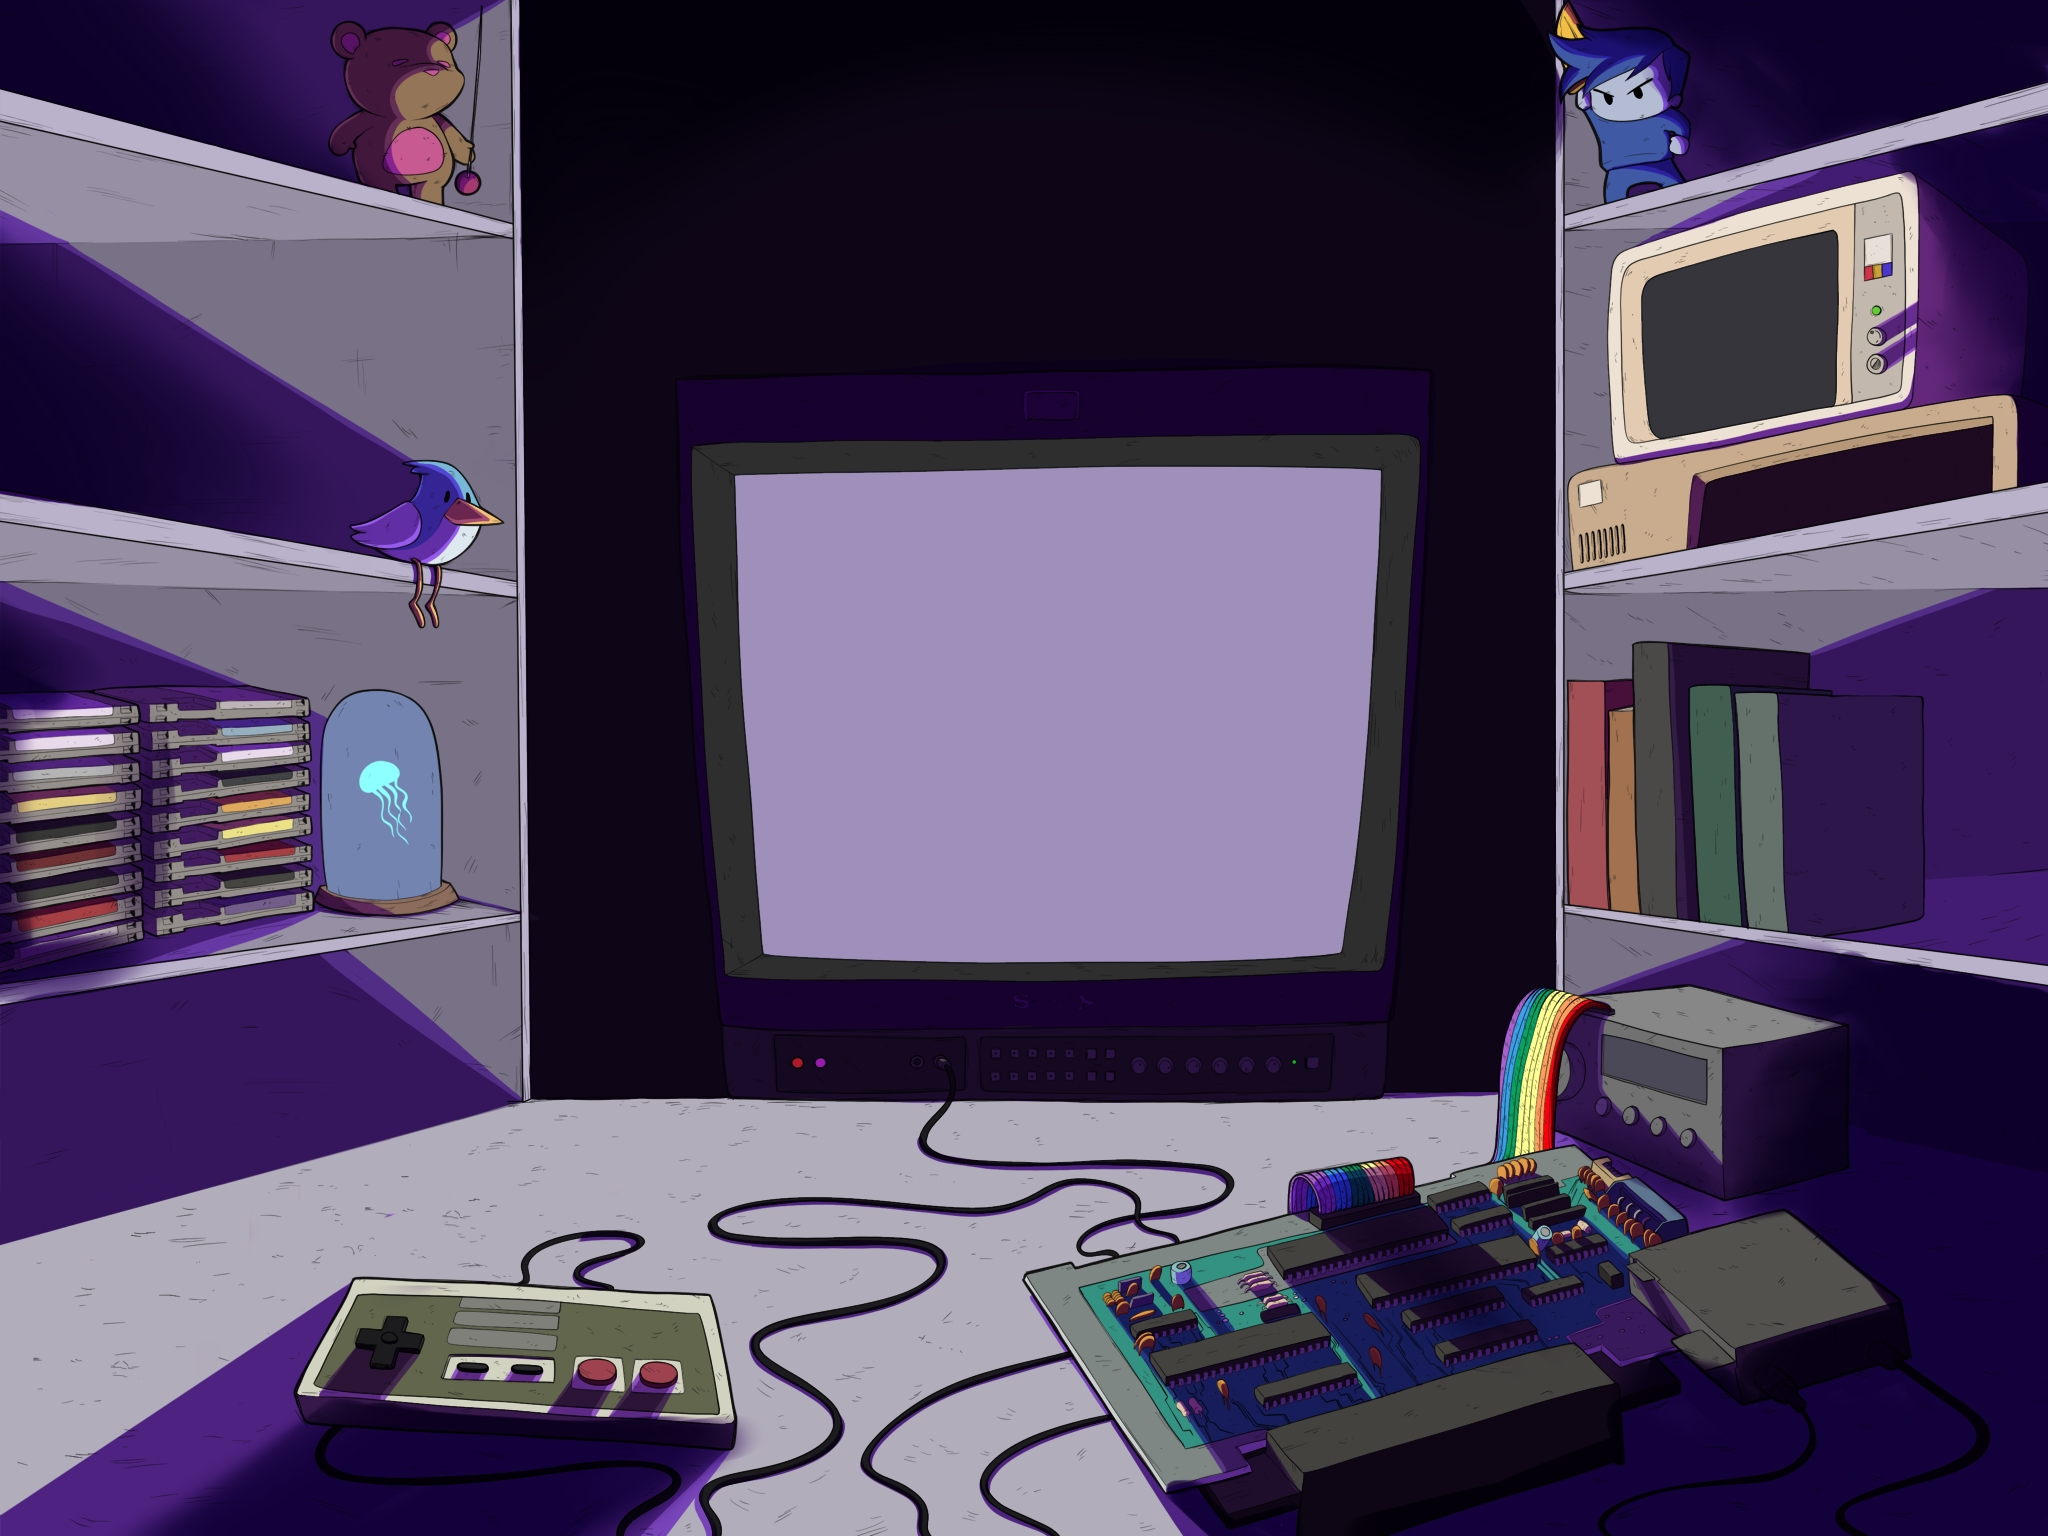
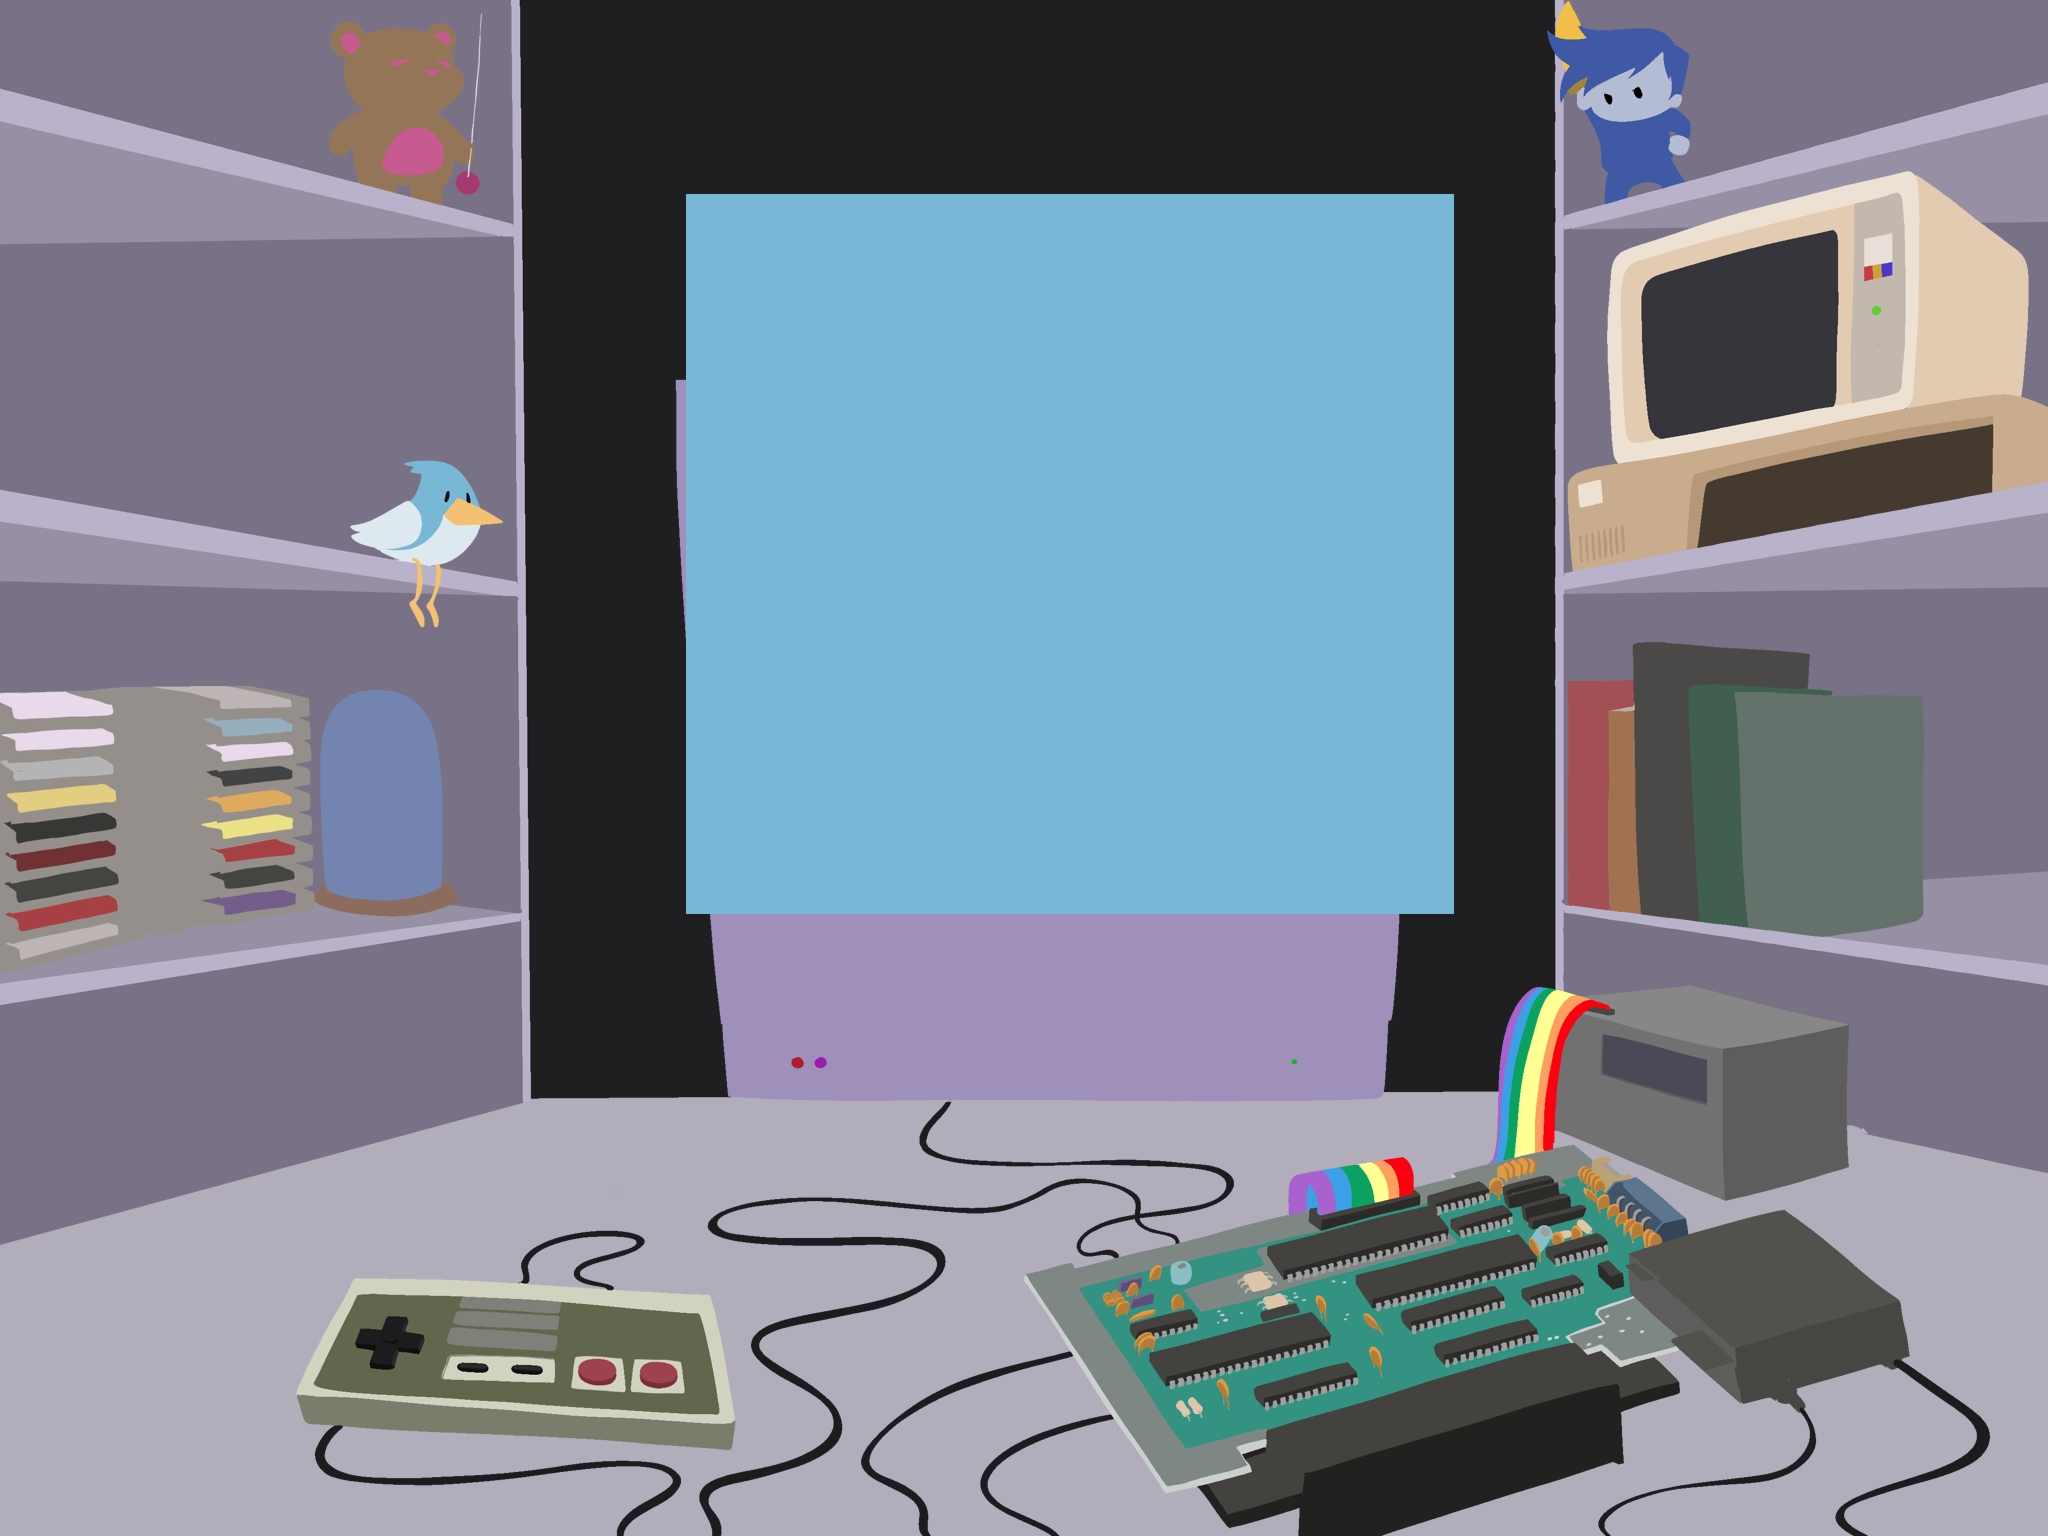
First good-looking version of revamped Let's Play

diff --git a/src/gui/components/emulator/GameStreamer.js b/src/gui/components/emulator/GameStreamer.js
@@ -12,19 +12,35 @@ import Emulator from "./Emulator";
 import integrations from "./integrations";
 import styles from "./GameStreamer.module.css";
 
-const INITIAL_ZOOM_DELAY = 3000;
 const ZOOM_DELAY = 1000;
 const ASSET_BACKGROUND = "assets/stream/main.jpg";
+const ASSET_TV = "assets/stream/tv.png";
+const ASSET_LIGHTS = {
+	tv: "assets/stream/light-tv.png",
+	monitor: "assets/stream/light-monitor.png",
+	buttons: "assets/stream/light-buttons-and-lamp.png",
+};
+const LIGHT_STROBE_SPEEDS = {
+	// low => slower strobe
+	tv: 0.2,
+	monitor: 0.005,
+	buttons: 0.3,
+};
+const LIGHT_OPACITY = {
+	min: 0.5,
+	max: 1,
+	range: 0.1,
+};
 const CRT_SPEED = 0.25;
 const SCREEN_WIDTH = 256;
 const SCREEN_HEIGHT = 240;
 
 // points in original stream.jpg coordinates (before center-crop scaling)
 const BUFFER_POINTS = {
-	topLeft: { x: 677, y: 434 },
-	topRight: { x: 1349, y: 434 },
-	bottomLeft: { x: 677, y: 933 },
-	bottomRight: { x: 1349, y: 933 },
+	topLeft: { x: 686, y: 194 },
+	topRight: { x: 1454, y: 194 },
+	bottomLeft: { x: 686, y: 914 },
+	bottomRight: { x: 1454, y: 914 },
 };
 
 export default class GameStreamer extends PureComponent {
@@ -35,7 +51,7 @@ export default class GameStreamer extends PureComponent {
 	}
 
 	zoom = () => {
-		this._changeZoomTo(styles.zoom, "megaZoom", INITIAL_ZOOM_DELAY);
+		this._changeZoomTo(styles.zoom, "megaZoom", 0);
 	};
 
 	megaZoom = () => {
@@ -81,7 +97,12 @@ export default class GameStreamer extends PureComponent {
 							ref={(ref) => {
 								this._zoomButton = ref;
 							}}
-							style={{ opacity: 0, marginLeft: 8, marginBottom: 0 }}
+							style={{
+								opacity: 0,
+								pointerEvents: "none",
+								marginLeft: 8,
+								marginBottom: 0,
+							}}
 						>
 							<IconButton
 								Icon={FaGlasses}
@@ -195,6 +216,10 @@ export default class GameStreamer extends PureComponent {
 		const loader = PIXI.Loader.shared;
 		loader.reset();
 		loader.add("background", ASSET_BACKGROUND);
+		loader.add("tv", ASSET_TV);
+		Object.entries(ASSET_LIGHTS).forEach(([key, path]) => {
+			loader.add(`light_${key}`, path);
+		});
 
 		let error = false;
 		loader.onError.add(() => {
@@ -219,6 +244,9 @@ export default class GameStreamer extends PureComponent {
 			const background = new PIXI.Sprite(resources.background.texture);
 			this._pixiBackground = background;
 
+			const tvOverlay = new PIXI.Sprite(resources.tv.texture);
+			this._tvOverlay = tvOverlay;
+
 			const bufferContainer = new PIXI.Container();
 			this._bufferContainer = bufferContainer;
 
@@ -239,11 +267,29 @@ export default class GameStreamer extends PureComponent {
 			this._crtFilter = crtFilter;
 
 			app.stage.addChild(background);
+
 			app.stage.addChild(bufferContainer);
+			app.stage.addChild(tvOverlay);
+
+			this._lightSprites = {};
+			const lightOrder = ["tv", "buttons", "monitor"];
+			lightOrder.forEach((key) => {
+				const sprite = new PIXI.Sprite(resources[`light_${key}`].texture);
+				sprite.alpha = LIGHT_OPACITY.min;
+				this._lightSprites[key] = sprite;
+				app.stage.addChild(sprite);
+			});
 
 			app.ticker.add((delta) => {
 				if (this._crtFilter) this._crtFilter.time += delta * CRT_SPEED;
 				if (!this.props.rom) this._updateNoise();
+
+				Object.entries(this._lightSprites).forEach(([key, sprite]) => {
+					const speed = LIGHT_STROBE_SPEEDS[key];
+					sprite.alpha =
+						LIGHT_OPACITY.min +
+						Math.sin(app.ticker.lastTime * speed) * LIGHT_OPACITY.range;
+				});
 			});
 
 			div.appendChild(app.view);
@@ -398,6 +444,20 @@ export default class GameStreamer extends PureComponent {
 				bg.height = imgH * scale;
 				bg.x = (canvasW - bg.width) / 2;
 				bg.y = (canvasH - bg.height) / 2;
+
+				if (this._tvOverlay) {
+					this._tvOverlay.width = bg.width;
+					this._tvOverlay.height = bg.height;
+					this._tvOverlay.x = bg.x;
+					this._tvOverlay.y = bg.y;
+				}
+
+				Object.values(this._lightSprites).forEach((sprite) => {
+					sprite.width = bg.width;
+					sprite.height = bg.height;
+					sprite.x = bg.x;
+					sprite.y = bg.y;
+				});
 
 				this._updateBufferTransform();
 			}

diff --git a/src/gui/components/emulator/GameStreamer.module.css b/src/gui/components/emulator/GameStreamer.module.css
@@ -4,6 +4,7 @@
 	display: flex;
 	flex-direction: column;
 	animation: fadein 5s;
+	image-rendering: pixelated;
 }
 
 @keyframes fadein {
@@ -49,6 +50,7 @@
 	border-radius: 0;
 	overflow: hidden;
 	background: black;
+	image-rendering: pixelated;
 }
 
 .stream {
@@ -56,26 +58,27 @@
 	width: 100%;
 	height: 100%;
 
-	animation: noise 5s infinite;
+	animation: noise 5s infinite, zoomloop 5s infinite;
+	image-rendering: pixelated;
 }
 
 .zoom {
 	animation: zoomin, zoomloop infinite;
-	animation-duration: 3s, 5s;
-	animation-delay: 0s, 3s;
-	transform: scale(1.3);
+	animation-duration: 0s, 5s;
+	animation-delay: 0s, 0s;
+	transform: scale(1);
 }
 
 .megazoom {
 	animation: megazoomin 1s;
-	transform: scale(1.8) translateX(-24px) translateY(24px);
+	transform: scale(1.8) translateX(-24px) translateY(70px);
 }
 
 .megazoomout {
 	animation: megazoomout, zoomloop infinite;
 	animation-duration: 1s, 5s;
 	animation-delay: 0s, 1s;
-	transform: scale(1.3);
+	transform: scale(1);
 }
 
 @keyframes noise {
@@ -83,28 +86,28 @@
 		filter: brightness(100%) contrast(100%) saturate(100%);
 	}
 	10% {
-		filter: brightness(98%) contrast(102%) saturate(98%);
+		filter: brightness(99%) contrast(101%) saturate(99%);
 	}
 	20% {
-		filter: brightness(102%) contrast(98%) saturate(102%);
+		filter: brightness(101%) contrast(99%) saturate(101%);
 	}
 	30% {
 		filter: brightness(100%) contrast(100%) saturate(100%);
 	}
 	40% {
-		filter: brightness(98%) contrast(102%) saturate(98%);
+		filter: brightness(99%) contrast(101%) saturate(99%);
 	}
 	50% {
-		filter: brightness(102%) contrast(98%) saturate(102%);
+		filter: brightness(101%) contrast(99%) saturate(101%);
 	}
 	60% {
 		filter: brightness(100%) contrast(100%) saturate(100%);
 	}
 	70% {
-		filter: brightness(98%) contrast(102%) saturate(98%);
+		filter: brightness(99%) contrast(101%) saturate(99%);
 	}
 	80% {
-		filter: brightness(102%) contrast(98%) saturate(102%);
+		filter: brightness(101%) contrast(99%) saturate(101%);
 	}
 	90% {
 		filter: brightness(100%) contrast(100%) saturate(100%);
@@ -115,47 +118,38 @@
 }
 
 @keyframes zoomin {
-	0% {
-		transform: scale(1);
-	}
-	25% {
-		transform: rotateZ(-10deg) scale(1.2);
-	}
-	75% {
-		transform: rotateZ(10deg) scale(1.25);
-	}
 	100% {
-		transform: rotateZ(0) scale(1.3);
+		transform: scale(1);
 	}
 }
 
 @keyframes zoomloop {
 	0% {
-		transform: scale(1.3);
+		transform: scale(1);
 	}
 	50% {
-		transform: scale(1.31);
+		transform: scale(1.01);
 	}
 	100% {
-		transform: scale(1.3);
+		transform: scale(1);
 	}
 }
 
 @keyframes megazoomin {
 	0% {
-		transform: scale(1.3) translateX(0) translateY(0);
+		transform: scale(1) translateX(0) translateY(0);
 	}
 	100% {
-		transform: scale(1.8) translateX(-24px) translateY(24px);
+		transform: scale(1.8) translateX(-24px) translateY(70px);
 	}
 }
 
 @keyframes megazoomout {
 	0% {
-		transform: scale(1.8) translateX(-24px) translateY(24px);
+		transform: scale(1.8) translateX(-24px) translateY(70px);
 	}
 	100% {
-		transform: scale(1.3) translateX(0) translateY(0);
+		transform: scale(1) translateX(0) translateY(0);
 	}
 }
 
